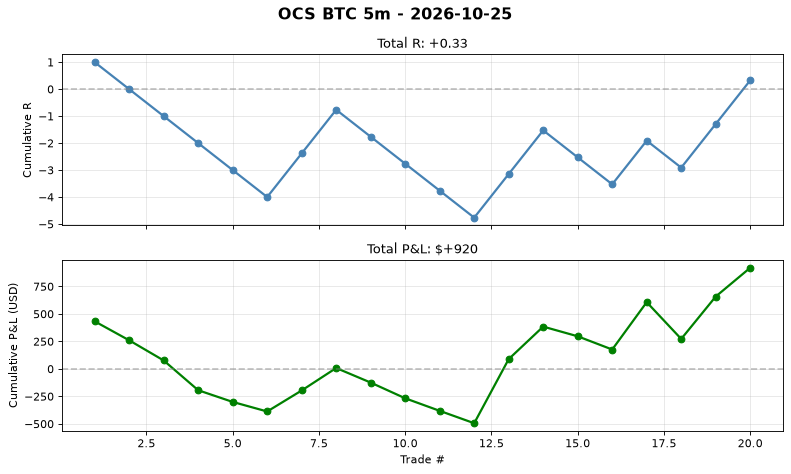
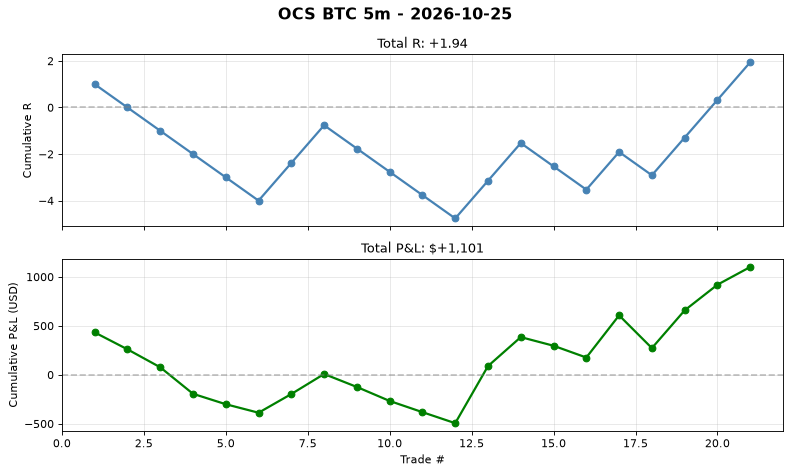
auto(ocs-btc): signal log 2026-10-25T04:18 trades=21

diff --git a/automation/reports/ocs_btc_5m/daily/2026-10-25.md b/automation/reports/ocs_btc_5m/daily/2026-10-25.md
@@ -1,5 +1,37 @@
 # OCS BTC 5m - 2026-10-25
 
-**No trades today.**
+## Summary
+- **Trades**: 1 (1W / 0L)
+- **Win Rate**: 100.0%
+- **Total R**: +1.62R
+- **Total P&L**: $+181
+- **Avg R**: +1.62R
+- **Profit Factor**: 1.16
 
-Cumulative stats: 20 trades | WR 40.0% | avg R 0.016
+## Exit Breakdown
+- T1 (+1.0R): 1
+- T2 (+1.618R): 8
+- T3 (+2.618R): 0
+- T4 (+3.618R): 0
+- T5 (+5.0R): 0
+- SL (-1.0R): 12
+
+## Best Trade
+- **LONG** at 80,658 -> T2 80,839
+- R = +1.62, P&L = $+181
+- Held for 23 bars
+
+## Worst Trade
+- **LONG** at 80,658 -> T2 80,839
+- R = +1.62, P&L = $+181
+- Held for 23 bars
+
+## Cumulative Stats (Lifetime)
+- Total trades: 21
+- WR: 42.9%
+- Avg R: 0.093
+- Total R: +1.94R
+- Profit Factor: 1.16
+
+## Chart
+See `daily/2026-10-25.png` for cumulative P&L curve.
